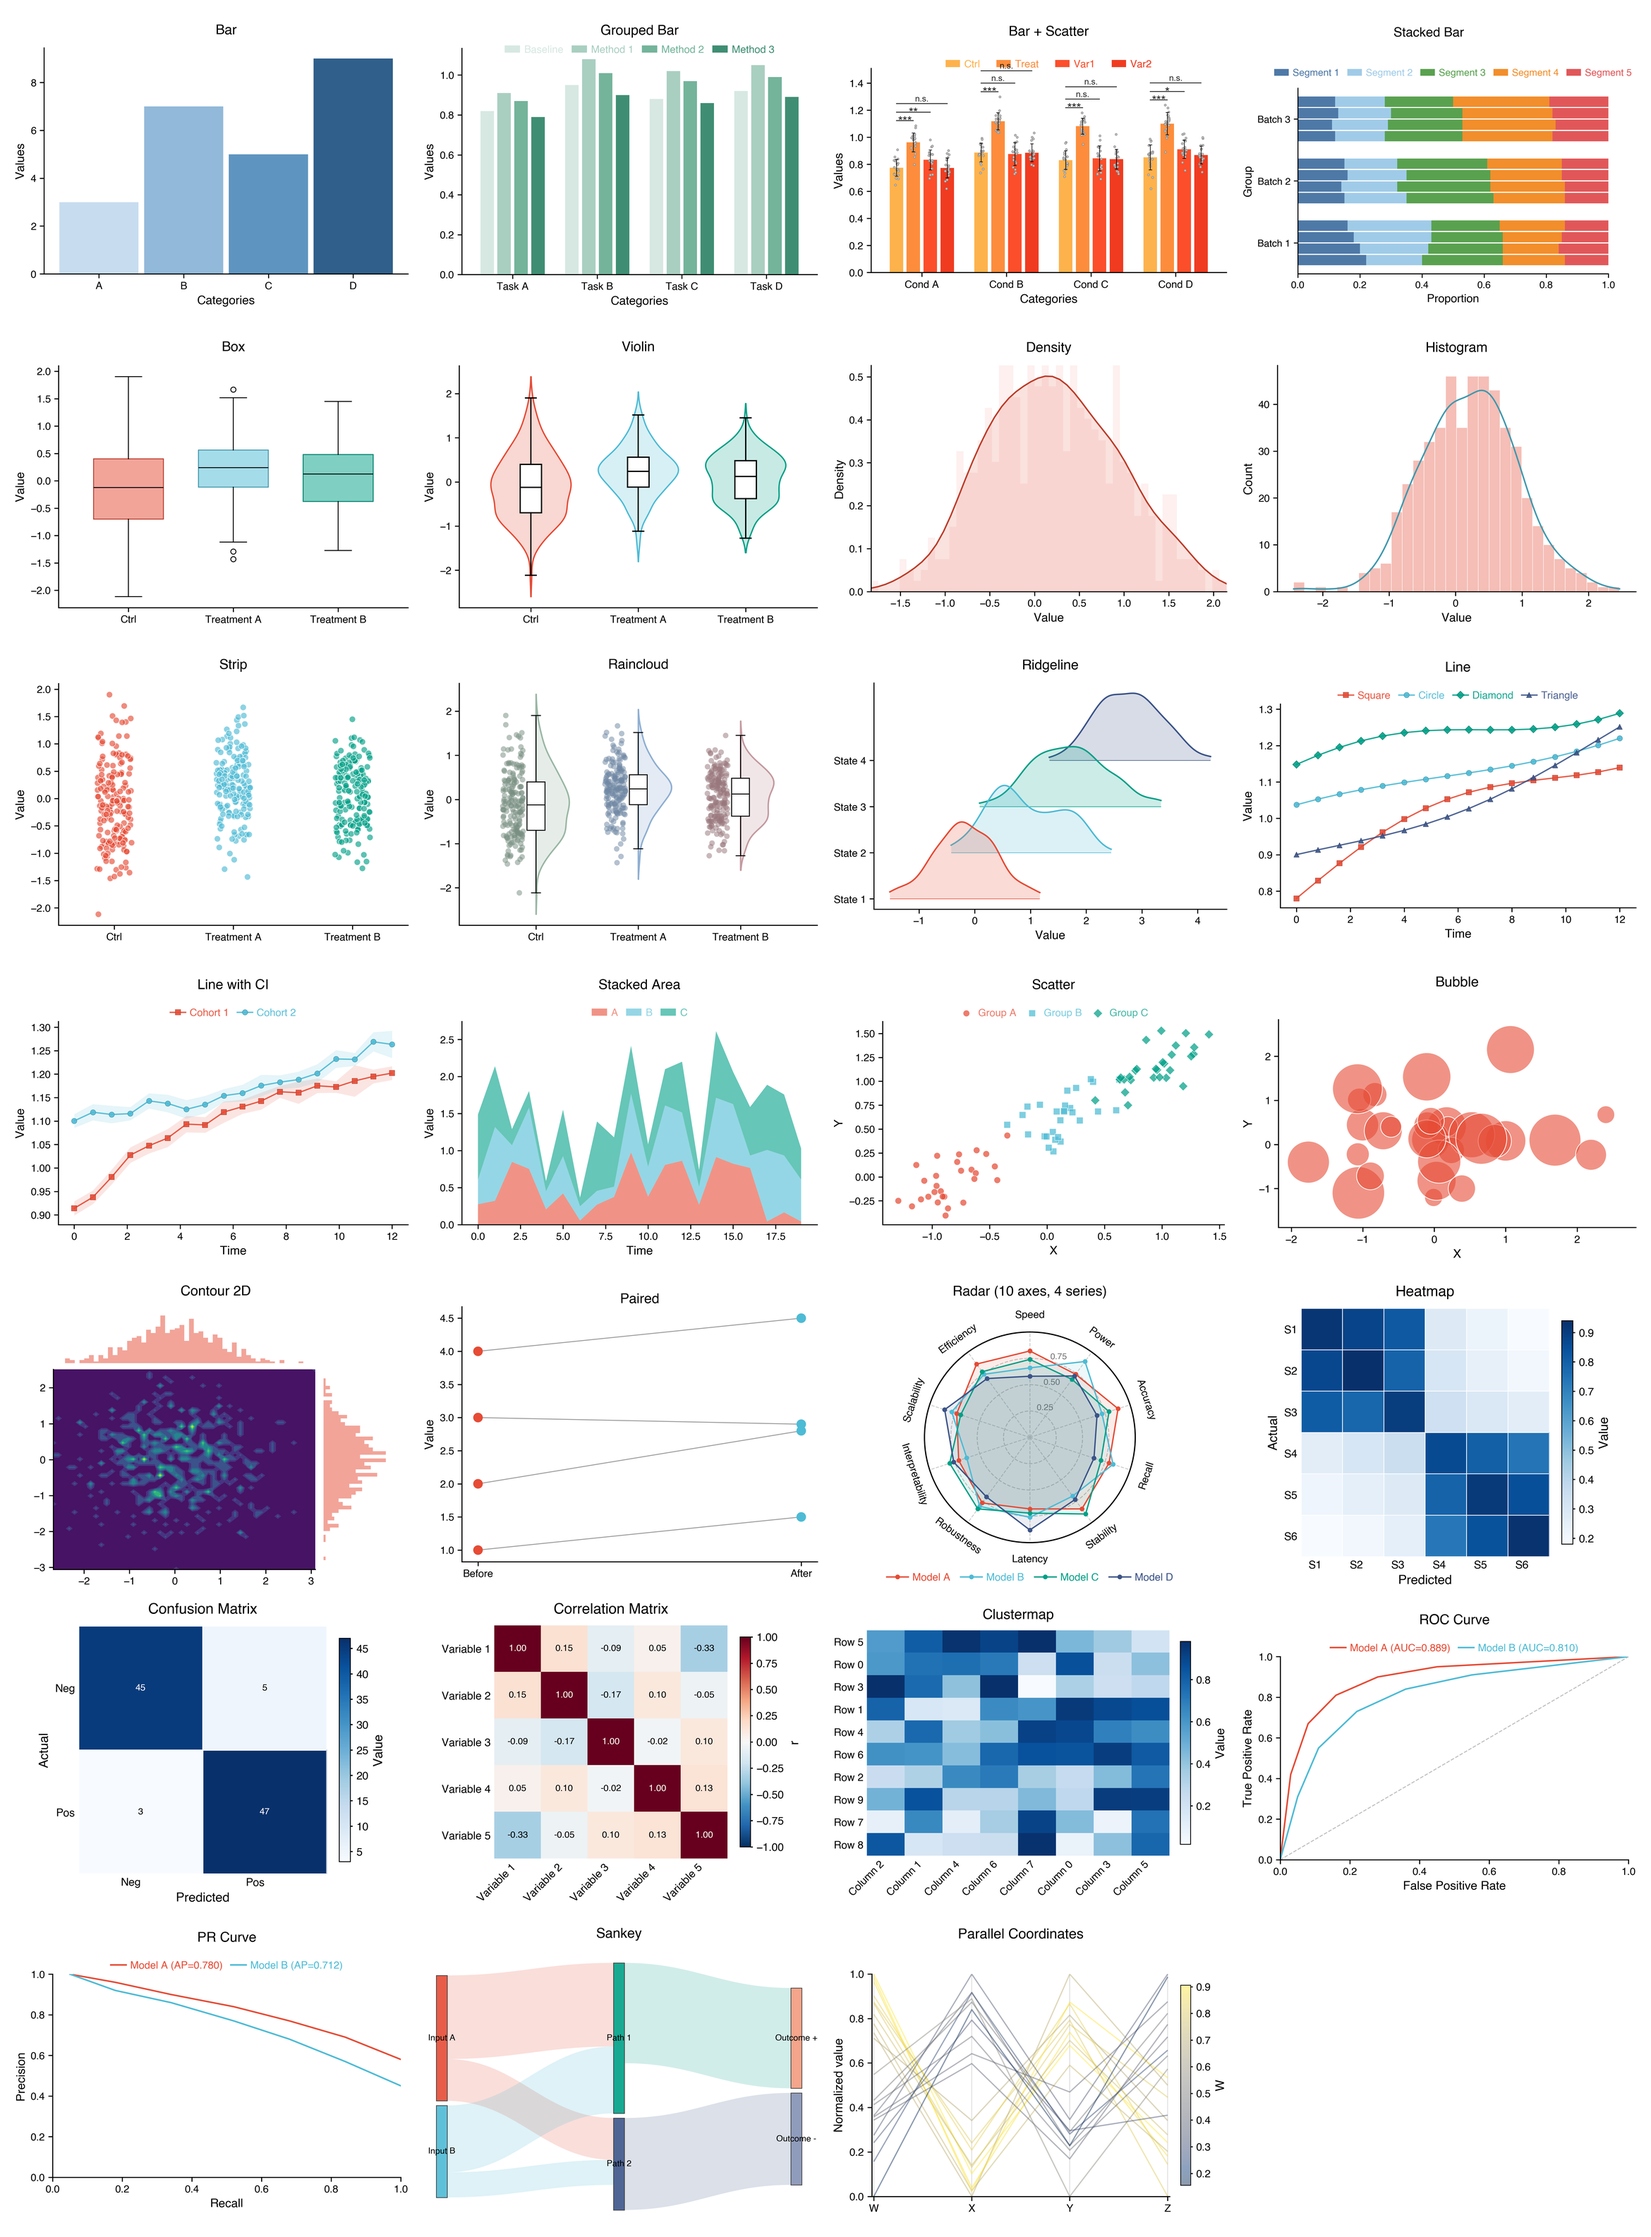
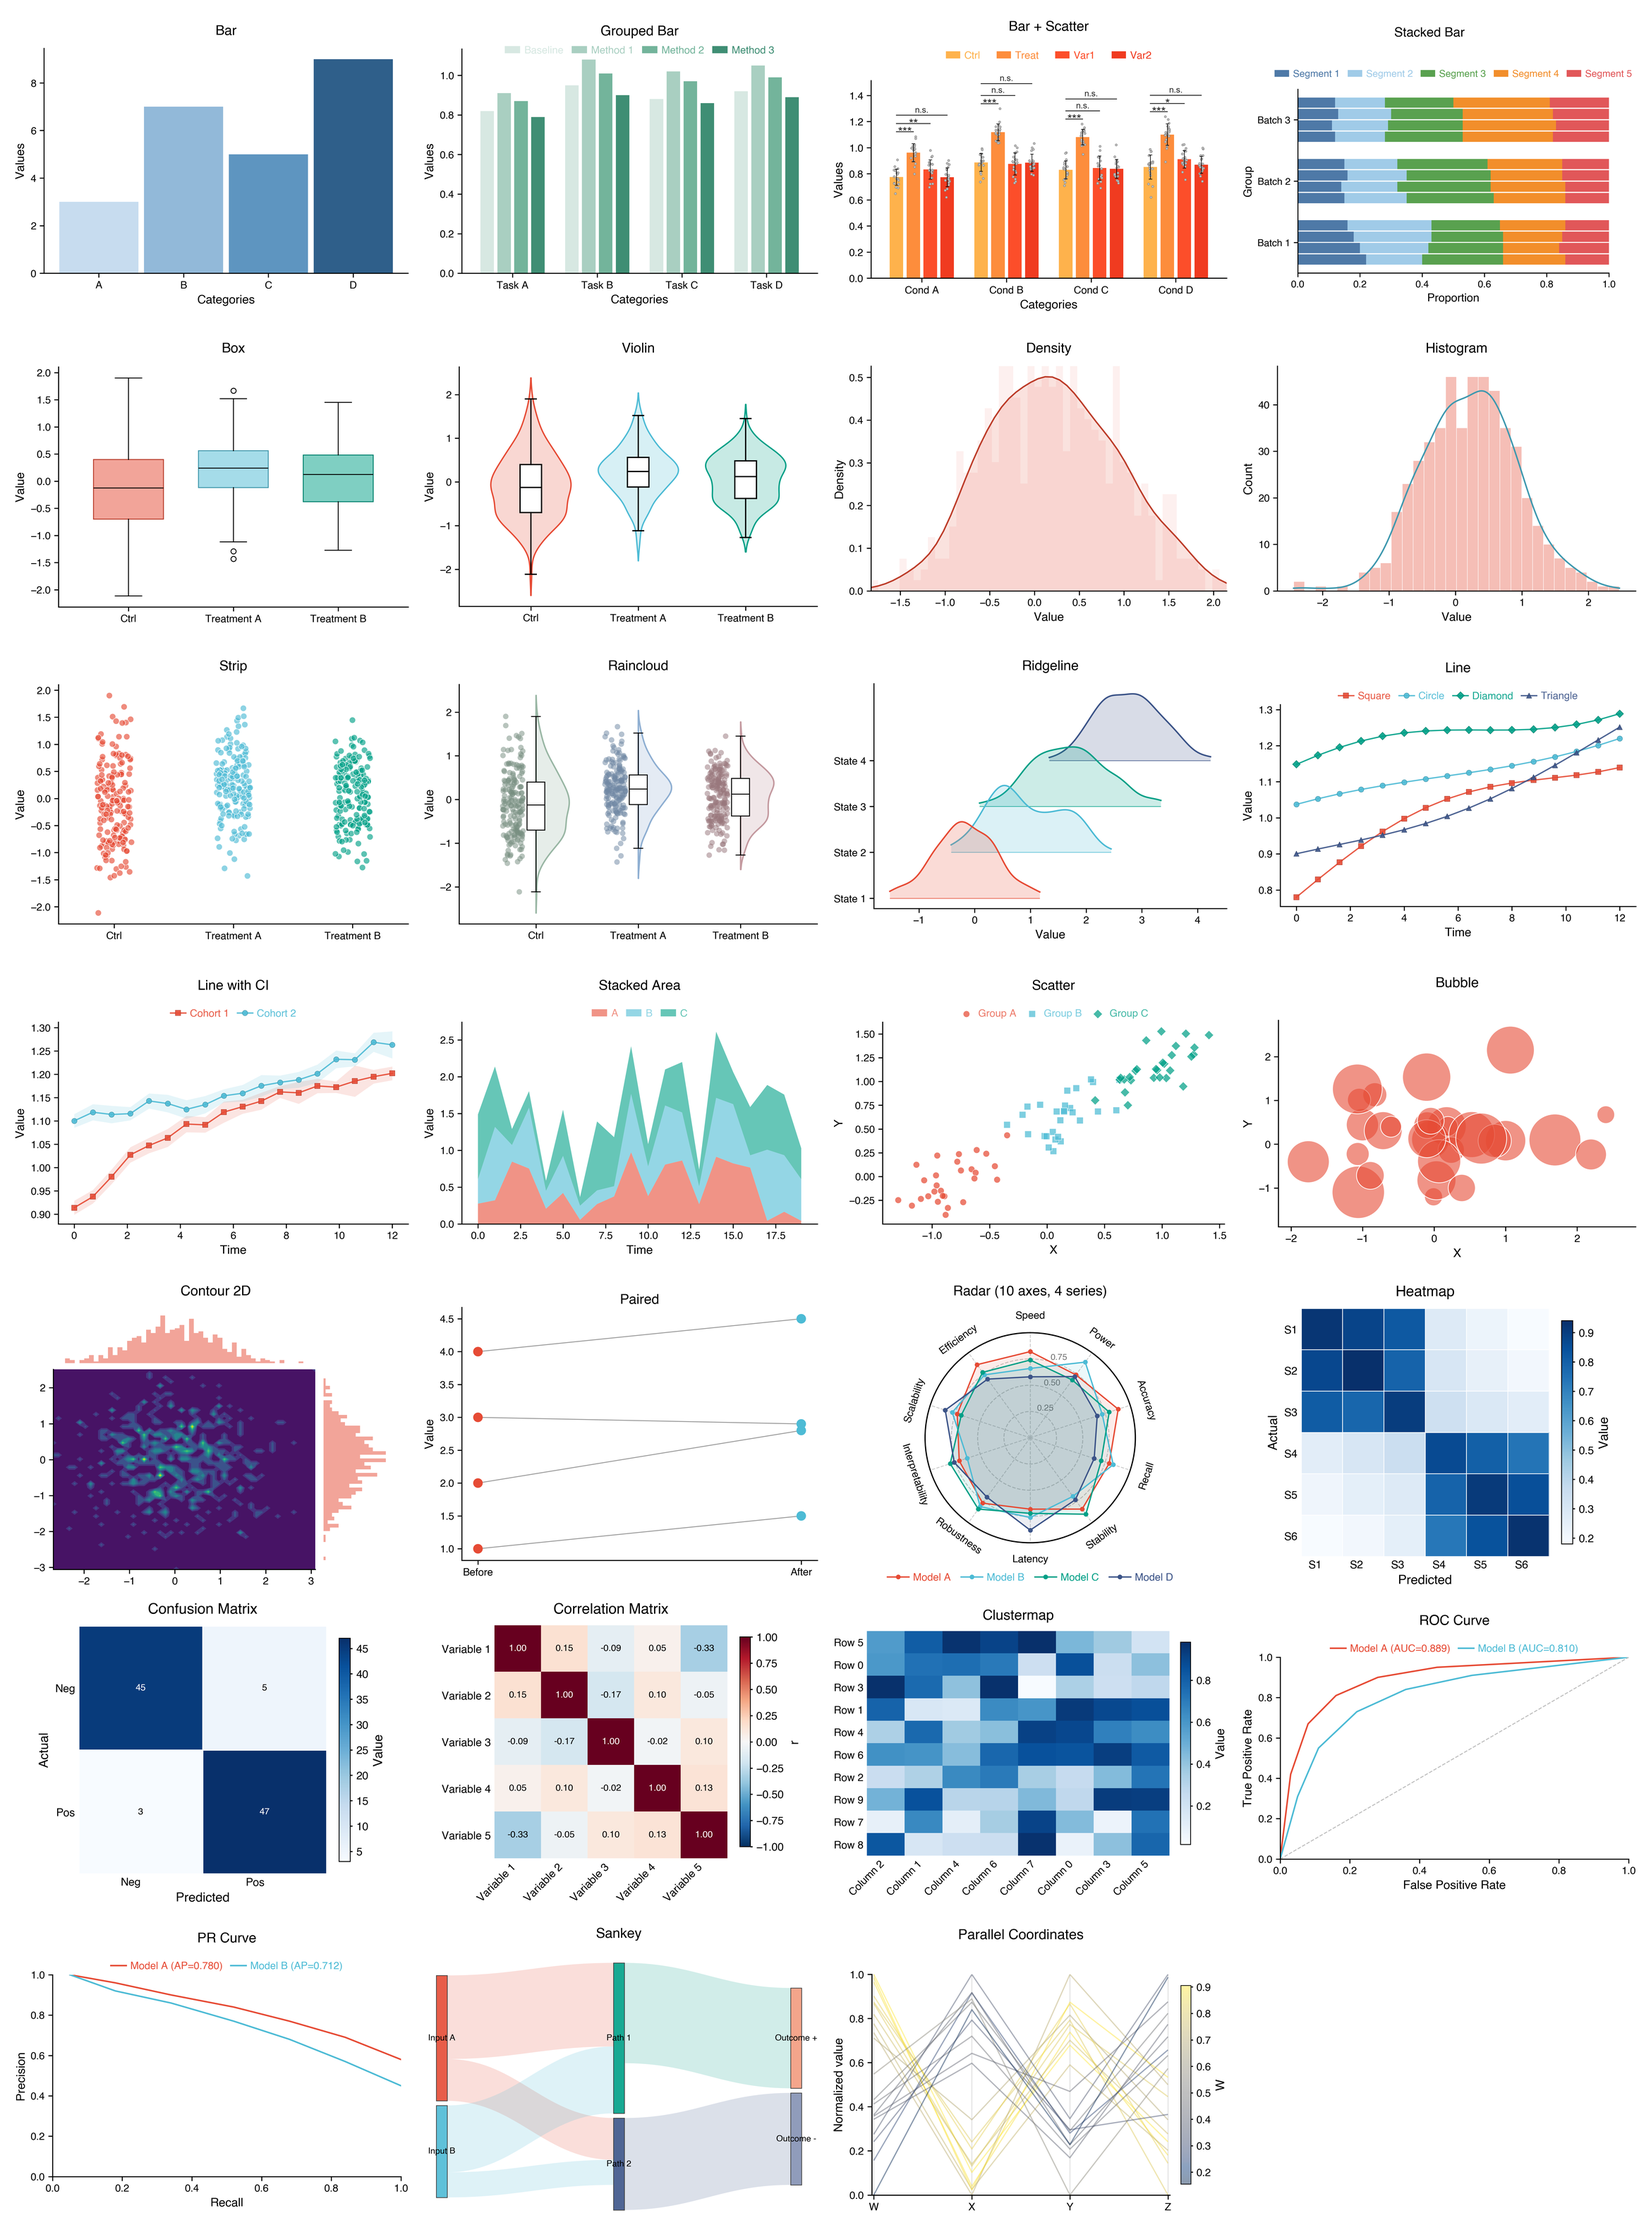
fix(gallery): lift bar_scatter legend above significance

diff --git a/examples/export_gallery.py b/examples/export_gallery.py
@@ -1,5 +1,6 @@
 """Export a gallery of pubfig plot types to output_figures/."""
 
+import shutil
 import sys
 from pathlib import Path
 
@@ -16,6 +17,12 @@ pf.set_default_theme("nature")
 OUT = ROOT / "output_figures"
 GALLERY_HERO = ROOT / "examples" / "gallery-hero.png"
 CONTACT_SHEET = OUT / "all_plots_contact_sheet.png"
+FEATURED_EXPORTS = {
+    "03_bar_scatter.png": ROOT / "examples" / "bar_scatter.png",
+    "08b_raincloud.png": ROOT / "examples" / "raincloud.png",
+    "10_line.png": ROOT / "examples" / "line.png",
+    "17_radar.png": ROOT / "examples" / "radar.png",
+}
 OUT.mkdir(parents=True, exist_ok=True)
 rng = np.random.default_rng(7)
 
@@ -389,6 +396,9 @@ build_gallery_contact_sheet(
     contact_sheet_path=CONTACT_SHEET,
     hero_path=GALLERY_HERO,
 )
+for exported_name, target_path in FEATURED_EXPORTS.items():
+    shutil.copy2(OUT / exported_name, target_path)
+    print(f"  ✓ {target_path.relative_to(ROOT)}")  # noqa: T201 - example script
 print(f"  ✓ {CONTACT_SHEET.relative_to(ROOT)}")  # noqa: T201 - example script
 print(f"  ✓ {GALLERY_HERO.relative_to(ROOT)}")  # noqa: T201 - example script
 

diff --git a/src/pubfig/plots/_bar_scatter.py b/src/pubfig/plots/_bar_scatter.py
@@ -228,7 +228,7 @@ def bar_scatter(
     legend_gap: float = 0.07,
     legend_y_anchor_min: float = 1.02,
     legend_y_anchor_no_title: float = 1.18,
-    legend_above_stats_margin_axes: float = 0.02,
+    legend_above_stats_margin_axes: float = 0.045,
     legend_columnspacing: float = 1.6,
     legend_handlelength: float = 1.4,
     legend_handletextpad: float = 0.4,
